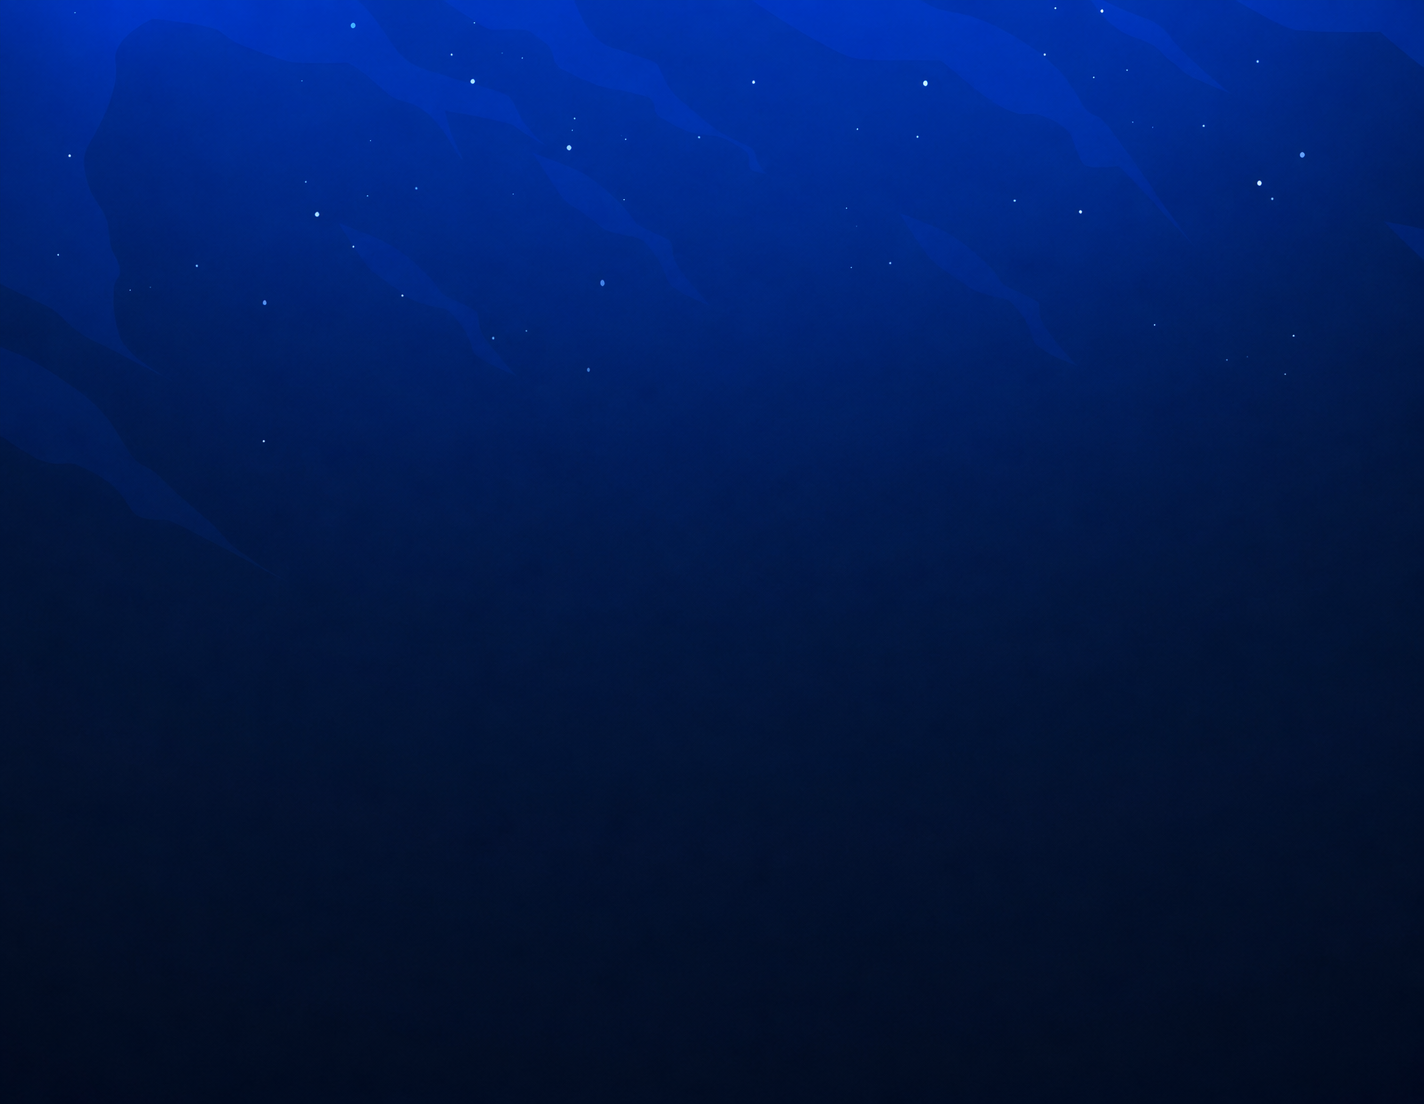
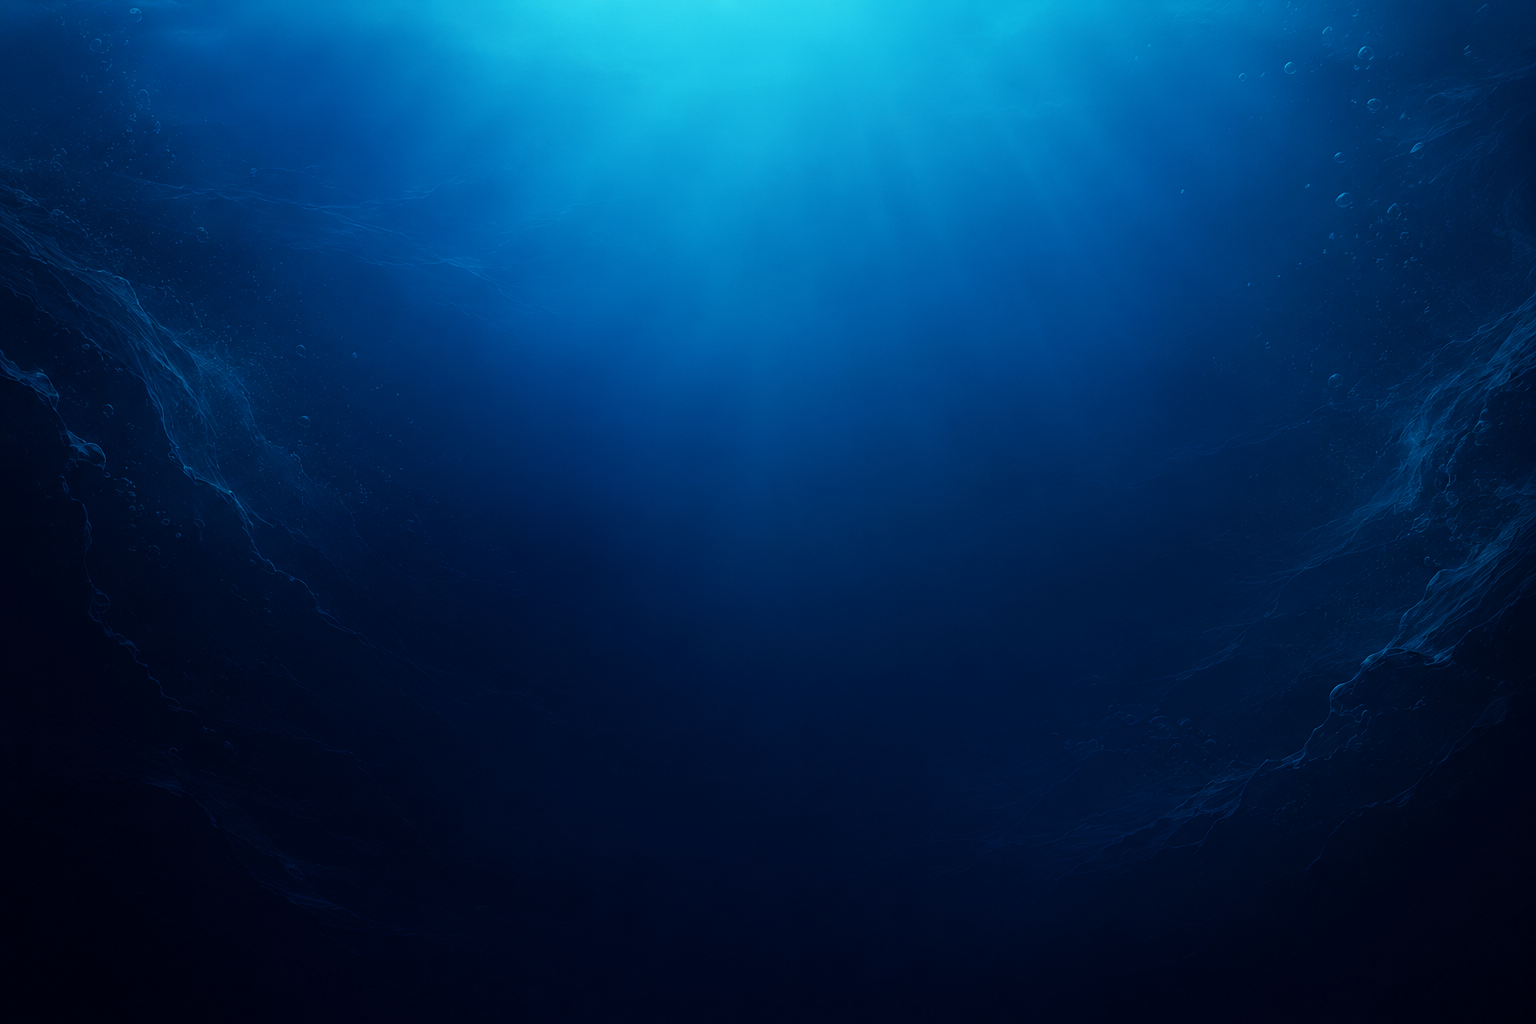
Alterações de Visual
Trocado algumas cores, logo e fundo do site

diff --git a/assets/style.css b/assets/style.css
@@ -1,6 +1,6 @@
 body{
-    background-image: url('/assets/fundo.png');
-    background-color: black;
+    background-image: url('/assets/image.png');
+    background-color: rgb(0, 0, 0);
     background-size: 100% auto;
     background-position: top center;
     background-repeat: no-repeat;
@@ -8,7 +8,6 @@ body{
 }
 body *, :root{
     font-family: 'Libernatinus Math', sans-serif;
-    line-height: 160%;
 }
 
 header{
@@ -21,14 +20,14 @@ main{
     max-width: 36rem;
     width: 90%;
     margin: 0 auto;
-    margin-top: 50px;
+    margin-top: -50px;
     font-size: 20px;
 }
 
 section{
     background-image: linear-gradient(90deg, #022ffc 0%, #0e1bd3 50%, #000000 100%);
     border-radius: 0.625rem;
-    padding: 4px;
+    padding: 5px;
 }
 section>div{
     background-color: #000000;
@@ -61,7 +60,7 @@ form input, form select, form textarea{
 }
 
 option{
-    background-color: aquamarine;
+    background-color: rgb(0, 102, 255);
 }
 
 input{
@@ -74,16 +73,19 @@ textarea{
 button{
     width: 100%;
     border: 0;
-    background-image: linear-gradient(0deg, #9572FC 0%, #43E7AD 50%, #E2D45C 100%);
+    background-image: linear-gradient(0deg, #0019f8 0%, #0511b8 50%, #0266fc 100%);
+    /* background-image: linear-gradient(0deg, #9572FC 0%, #43E7AD 50%, #E2D45C 100%); */
     padding: 0.675rem;
     border-radius: 0.5rem;
     font-weight: bold;
     letter-spacing: 0.50px;
     transition: all 0.3s;
+    color: white;
 }
 button:hover{
     cursor: pointer;
-    background-image: linear-gradient(0deg, #E2D45C 0%, #9572FC 50%, #43E7AD 100%);
+    background-image: linear-gradient(0deg, #0266fc 0%, #0019f8 50%, #0511b8 100%);
+    /* background-image: linear-gradient(0deg, #E2D45C 0%, #9572FC 50%, #43E7AD 100%); */
     box-shadow: 0 10px 1rem rgba(5, 5, 5, 5);
 }
 button:disabled{
@@ -98,7 +100,7 @@ button:disabled{
     background: rgb(0,0,0,0.5);
     border-radius: 0.5rem;
     padding: 1.25rem;
-    border-left: 4px solid #43E7AD;
+    border-left: 4px solid #0044ff;
 }
 #aiResponse ul{
     padding-left: 1.5rem;

diff --git a/index.html b/index.html
@@ -11,7 +11,7 @@
 </head>
 <body>
     <header>
-        <img src="./assets/logo.png" alt="Logo da Imagem">
+        <img src="./assets/logo.png" alt="Logo da Imagem" width="35%" style="padding-top: 0%;">
     </header>
 
     <main>